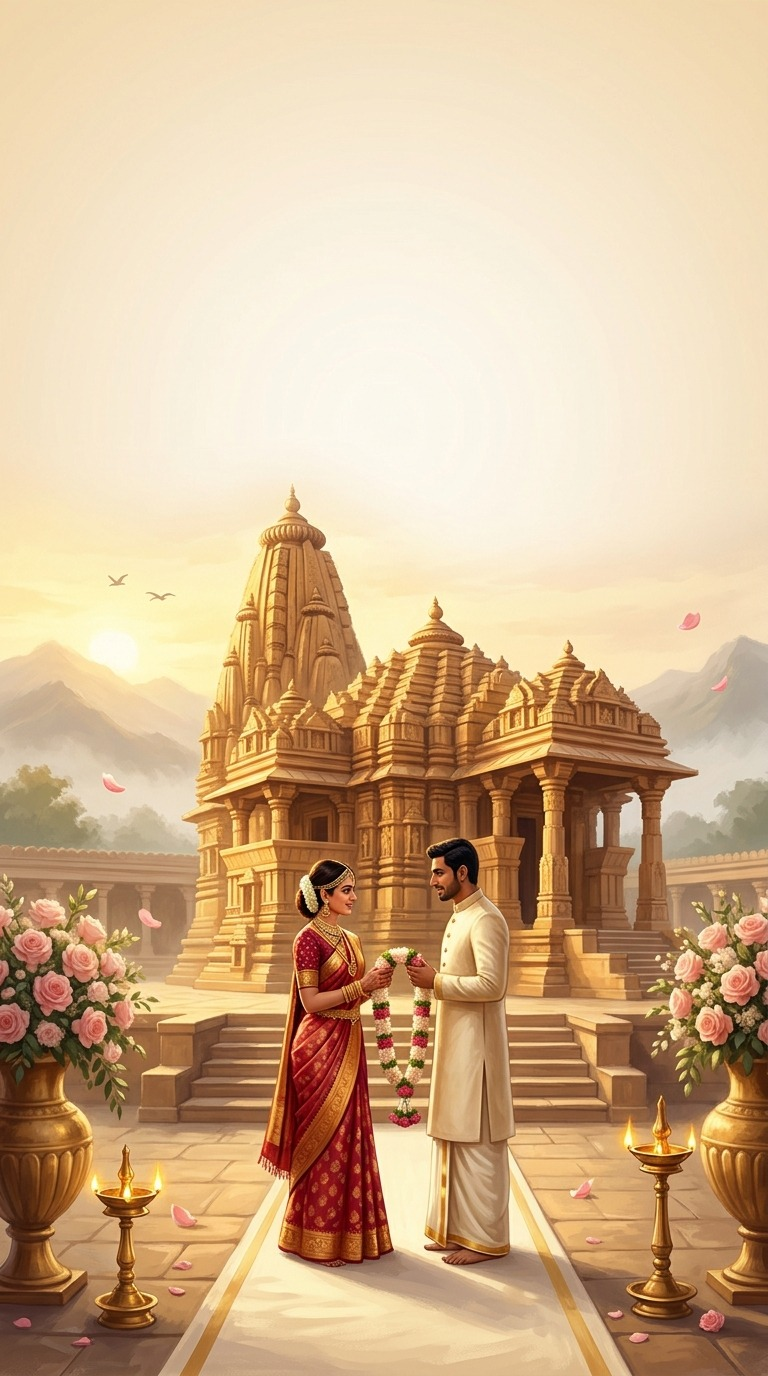
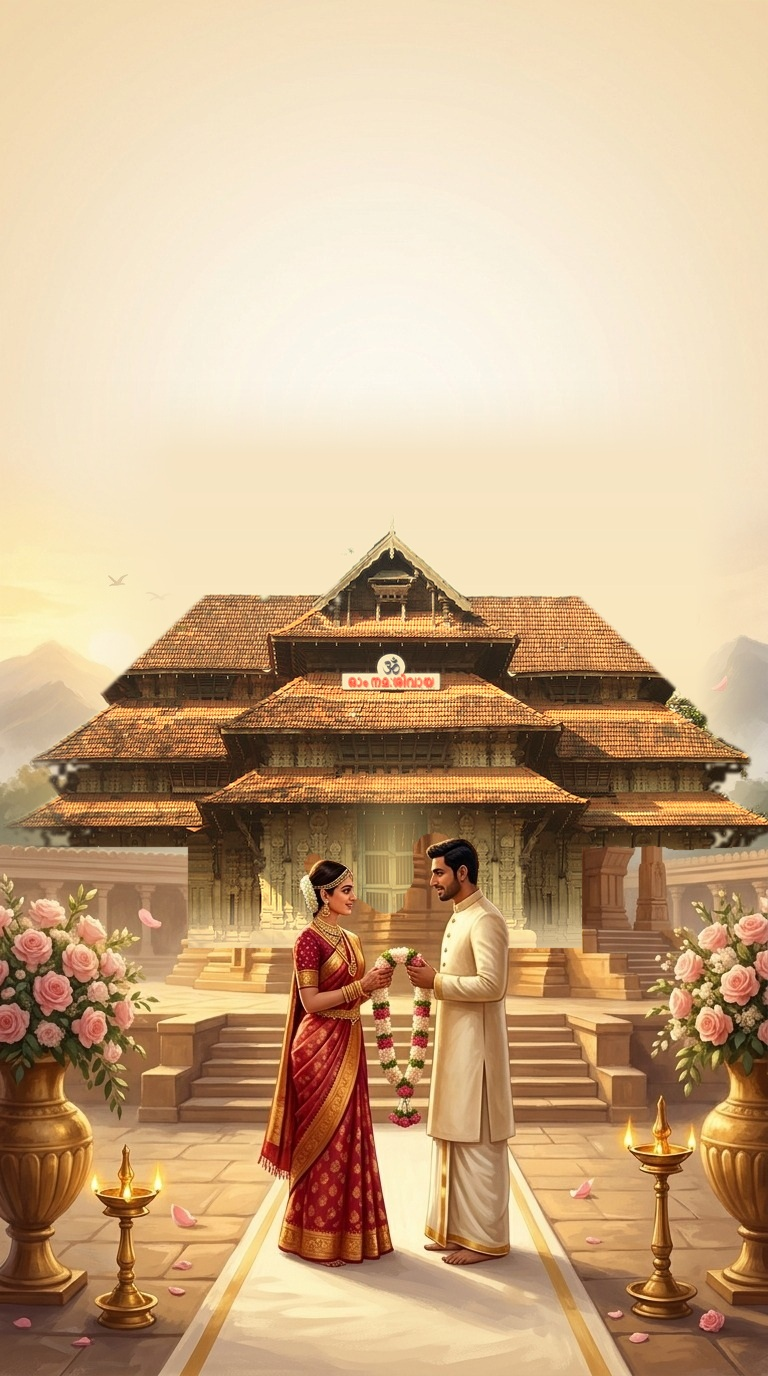
Replace hero temple with Vadakkunnathan gopuram, embed Google Maps below Wedding & Reception, and remove RSVP/call/floating buttons

Changed region(s): [[0.0312, 0.3125, 1.0, 0.6875]]

diff --git a/app/page.js b/app/page.js
@@ -6,7 +6,6 @@ import MeetCoupleSection from './components/MeetCoupleSection'
 import CountdownScratchSection from './components/CountdownScratchSection'
 import VenuesSection from './components/VenuesSection'
 import ThankYouSection from './components/ThankYouSection'
-import RsvpModal from './components/RsvpModal'
 
 const D = {
   groom: 'Vysakh',
@@ -37,23 +36,18 @@ export default function Page() {
   const [introKey, setIntroKey] = useState(0)
   const [showIntro, setShowIntro] = useState(true)
   const [started, setStarted] = useState(false)
-  const [musicOn, setMusicOn] = useState(false)
-  const [modalOpen, setModalOpen] = useState(false)
 
   const audioRef = useRef({ ctx: null, interval: null, master: null, droneOscs: [] })
-  const userMutedRef = useRef(false)
 
   // Start gentle ambient music once scroll opens
   useEffect(() => {
     if (!started || showIntro) return
     const unlockAudio = () => {
-      if (!userMutedRef.current && !musicOn) {
-        startMusic()
-      }
+      startMusic()
     }
     window.addEventListener('pointerdown', unlockAudio, { once: true })
     return () => window.removeEventListener('pointerdown', unlockAudio)
-  }, [started, showIntro, musicOn])
+  }, [started, showIntro])
 
   // Scroll-reveal observer for sections below the hero scroll
   useEffect(() => {
@@ -86,7 +80,6 @@ export default function Page() {
     if (a.master && a.ctx) {
       a.master.gain.setTargetAtTime(0, a.ctx.currentTime, 0.15)
     }
-    setMusicOn(false)
   }
 
   const startMusic = () => {
@@ -100,7 +93,7 @@ export default function Page() {
       const ctx = a.ctx
       const master = ctx.createGain()
       master.gain.setValueAtTime(0.001, ctx.currentTime)
-      master.gain.exponentialRampToValueAtTime(0.16, ctx.currentTime + 1.2)
+      master.gain.exponentialRampToValueAtTime(0.14, ctx.currentTime + 1.2)
       master.connect(ctx.destination)
       a.master = master
 
@@ -140,66 +133,29 @@ export default function Page() {
         idx = (idx + 1) % pattern.length
         playPluck(scale[pattern[idx]])
       }, 680)
-
-      setMusicOn(true)
-    } catch {
-      setMusicOn(false)
-    }
-  }
-
-  const toggleMusic = () => {
-    if (musicOn) {
-      userMutedRef.current = true
-      stopMusic()
-    } else {
-      userMutedRef.current = false
-      startMusic()
-    }
+    } catch {}
   }
 
   const finishIntro = () => {
     setShowIntro(false)
     setStarted(true)
     window.scrollTo({ top: 0, behavior: 'instant' })
-    if (!userMutedRef.current) startMusic()
-  }
-
-  const replayIntro = () => {
-    stopMusic()
-    window.scrollTo({ top: 0, behavior: 'instant' })
-    setStarted(false)
-    setShowIntro(true)
-    setIntroKey((k) => k + 1)
+    startMusic()
   }
 
   return (
     <div className="shell">
-      {/* 1. UNROLLED TEMPLE SCROLL HERO (matches reference video unroll reveal) */}
+      {/* 1. UNROLLED TEMPLE SCROLL HERO */}
       <HeroScrollSection data={D} started={started} key={`hero-${introKey}`} />
 
-      {/* 2–5. SCROLLABLE SECTIONS (visible once scroll unrolls) */}
+      {/* 2–5. SCROLLABLE SECTIONS */}
       {started && (
         <>
           <MeetCoupleSection data={D} />
           <CountdownScratchSection />
-          <VenuesSection data={D} onOpenRsvp={() => setModalOpen(true)} />
+          <VenuesSection data={D} />
           <ThankYouSection data={D} />
         </>
-      )}
-
-      {/* Fixed Floating Corner Controls */}
-      {started && (
-        <nav className="floating-controls" aria-label="Invitation controls">
-          <button type="button" className="ctrl-chip" onClick={replayIntro}>
-            INTRO
-          </button>
-          <button type="button" className="ctrl-chip" onClick={() => setModalOpen(true)}>
-            RSVP
-          </button>
-          <button type="button" className="ctrl-chip" onClick={toggleMusic}>
-            {musicOn ? '♪ ON' : '♪ OFF'}
-          </button>
-        </nav>
       )}
 
       {/* Closed Royal Scroll Gate (tap anywhere to unroll) */}
@@ -211,9 +167,6 @@ export default function Page() {
           onSkip={finishIntro}
         />
       )}
-
-      {/* Full Details & WhatsApp RSVP Modal */}
-      <RsvpModal open={modalOpen} onClose={() => setModalOpen(false)} data={D} />
     </div>
   )
 }

diff --git a/app/components/VenuesSection.js b/app/components/VenuesSection.js
@@ -6,8 +6,11 @@ function KoburamVenueCard({
   rows,
   blessing,
   mapHref,
-  locationLabel,
+  embedQuery,
+  mapCaption,
 }) {
+  const embedSrc = `https://maps.google.com/maps?q=${encodeURIComponent(embedQuery)}&t=m&z=15&ie=UTF8&iwloc=&output=embed`
+
   return (
     <article className="koburam-card reveal">
       <div className="koburam-stage">
@@ -50,26 +53,46 @@ function KoburamVenueCard({
             rel="noopener noreferrer"
             className="koburam-location-link"
           >
-            {locationLabel} &rarr;
+            VIEW LOCATION &rarr;
           </a>
         </div>
       </div>
 
-      {/* Explicit Google Location bar right below each venue Koburam */}
-      <a
-        href={mapHref}
-        target="_blank"
-        rel="noopener noreferrer"
-        className="koburam-google-pill"
-      >
-        <span className="pin-dot" aria-hidden="true">&#128205;</span>
-        Google Maps Location &mdash; {title}
-      </a>
+      {/* Live Google Map Snapshot Card right below each Koburam venue */}
+      <div className="gmap-card">
+        <div className="gmap-frame-wrap">
+          <iframe
+            title={`${title} Google Map Location`}
+            src={embedSrc}
+            className="gmap-iframe"
+            loading="lazy"
+            referrerPolicy="no-referrer-when-downgrade"
+          />
+          <a
+            href={mapHref}
+            target="_blank"
+            rel="noopener noreferrer"
+            className="gmap-tap-overlay"
+            aria-label={`Open ${mapCaption} in Google Maps`}
+          />
+        </div>
+        <a
+          href={mapHref}
+          target="_blank"
+          rel="noopener noreferrer"
+          className="gmap-footer-bar"
+        >
+          <span className="gmap-pin-label">
+            <span aria-hidden="true">&#128205;</span> {mapCaption}
+          </span>
+          <span className="gmap-open-cta">Open Google Maps &rarr;</span>
+        </a>
+      </div>
     </article>
   )
 }
 
-export default function VenuesSection({ data, onOpenRsvp }) {
+export default function VenuesSection({ data }) {
   return (
     <section id="venues" className="scroll-sec cream-sec">
       <div className="sec-head reveal">
@@ -79,7 +102,7 @@ export default function VenuesSection({ data, onOpenRsvp }) {
       </div>
 
       <div className="venues-stack">
-        {/* VENUE 1: WEDDING CEREMONY — Sculpted Gold Koburam */}
+        {/* VENUE 1: WEDDING CEREMONY — Sculpted Gold Koburam + Google Map */}
         <KoburamVenueCard
           dateScript="Sunday, 13 December 2026"
           title="Wedding"
@@ -102,10 +125,11 @@ export default function VenuesSection({ data, onOpenRsvp }) {
           ]}
           blessing="A sacred union blessed with garlands, chants & timeless joy."
           mapHref={data.templeMap}
-          locationLabel="VIEW LOCATION"
+          embedQuery="Subramanya Swamy Temple, Thiruvanchoor, Kottayam, Kerala"
+          mapCaption="Subramanya Swamy Temple, Thiruvanchoor"
         />
 
-        {/* VENUE 2: WEDDING RECEPTION — Sculpted Gold Koburam */}
+        {/* VENUE 2: WEDDING RECEPTION — Sculpted Gold Koburam + Google Map */}
         <KoburamVenueCard
           dateScript="Sunday Evening, 13 Dec 2026"
           title="Reception"
@@ -127,20 +151,9 @@ export default function VenuesSection({ data, onOpenRsvp }) {
           ]}
           blessing="An evening of dinner, blessings & celebration."
           mapHref={data.residenceMap}
-          locationLabel="VIEW LOCATION"
+          embedQuery="Narakathara, Kavalam, Alappuzha, Kerala"
+          mapCaption="Kandathusserry House, Narakathara, Kavalam"
         />
-
-        {/* RSVP & Family Phone Strip */}
-        <div className="contact-strip reveal">
-          <button type="button" className="btn-rsvp-gold" onClick={onOpenRsvp}>
-            Confirm RSVP
-          </button>
-          {data.phones.map((p) => (
-            <a key={p} className="btn-gold-outline" href={`tel:+91${p}`}>
-              Call {p.slice(0, 5)} {p.slice(5)}
-            </a>
-          ))}
-        </div>
       </div>
     </section>
   )

diff --git a/app/globals.css b/app/globals.css
@@ -1134,68 +1134,70 @@ body {
   transform: translateY(-1px);
 }
 
-.koburam-google-pill {
-  display: inline-flex;
-  align-items: center;
-  justify-content: center;
-  gap: 8px;
-  padding: 10px 22px;
-  border-radius: 999px;
-  background: linear-gradient(135deg, #6e2b18 0%, #561d0f 100%);
-  border: 1px solid rgba(218, 174, 92, 0.72);
-  color: #fbe8be;
-  font-family: 'Cinzel', serif;
-  font-size: 10.5px;
-  font-weight: 600;
-  letter-spacing: 0.12em;
-  text-transform: uppercase;
-  text-decoration: none;
-  box-shadow: 0 8px 18px rgba(72, 32, 16, 0.18);
+/* Google Map Card below each Koburam venue */
+.gmap-card {
+  width: 92%;
+  margin: -2px auto 4px;
+  border-radius: 16px;
+  overflow: hidden;
+  border: 1.5px solid rgba(196, 152, 68, 0.58);
+  background: #fffcf4;
+  box-shadow: 0 12px 28px rgba(72, 36, 16, 0.14);
 }
 
-.btn-rsvp-gold {
-  display: inline-flex;
-  align-items: center;
-  justify-content: center;
-  padding: 10px 22px;
-  border-radius: 999px;
-  border: 1px solid #8c5a18;
-  background: linear-gradient(135deg, #c2913c 0%, #9b6b22 100%);
-  color: #fffdf6;
-  font-family: 'Cinzel', serif;
-  font-size: 10.5px;
-  font-weight: 600;
-  letter-spacing: 0.14em;
-  text-transform: uppercase;
-  cursor: pointer;
-  box-shadow: 0 6px 16px rgba(132, 88, 28, 0.24);
+.gmap-frame-wrap {
+  position: relative;
+  width: 100%;
+  height: 172px;
+  background: #efe6cf;
 }
 
-.btn-gold-outline {
-  display: inline-flex;
-  align-items: center;
-  justify-content: center;
-  padding: 9px 18px;
-  border-radius: 999px;
-  border: 1px solid var(--gold);
-  background: #fffdf8;
-  color: var(--ink);
-  font-family: 'Cinzel', serif;
-  font-size: 10.5px;
-  font-weight: 600;
-  letter-spacing: 0.12em;
-  text-transform: uppercase;
-  text-decoration: none;
-  cursor: pointer;
+.gmap-iframe {
+  width: 100%;
+  height: 100%;
+  border: 0;
+  display: block;
 }
 
-.contact-strip {
+.gmap-tap-overlay {
+  position: absolute;
+  inset: 0;
+  z-index: 2;
+  background: transparent;
+}
+
+.gmap-footer-bar {
   display: flex;
-  flex-wrap: wrap;
-  justify-content: center;
-  gap: 10px;
-  margin-top: 2px;
-  padding-bottom: 18px;
+  align-items: center;
+  justify-content: space-between;
+  gap: 8px;
+  padding: 10px 14px;
+  background: linear-gradient(135deg, #6e2b18 0%, #561d0f 100%);
+  color: #fbe8be;
+  text-decoration: none;
+  border-top: 1px solid rgba(218, 174, 92, 0.45);
+}
+
+.gmap-pin-label {
+  display: inline-flex;
+  align-items: center;
+  gap: 6px;
+  font-family: 'Cormorant Garamond', Georgia, serif;
+  font-size: 13.5px;
+  font-weight: 600;
+  color: #fff6e4;
+  text-align: left;
+  line-height: 1.2;
+}
+
+.gmap-open-cta {
+  font-family: 'Cinzel', serif;
+  font-size: 9.5px;
+  font-weight: 600;
+  letter-spacing: 0.12em;
+  text-transform: uppercase;
+  color: #f3d288;
+  white-space: nowrap;
 }
 
 /* ================= THANK YOU FINALE (3RD PHOTO REFERENCE) ================= */
